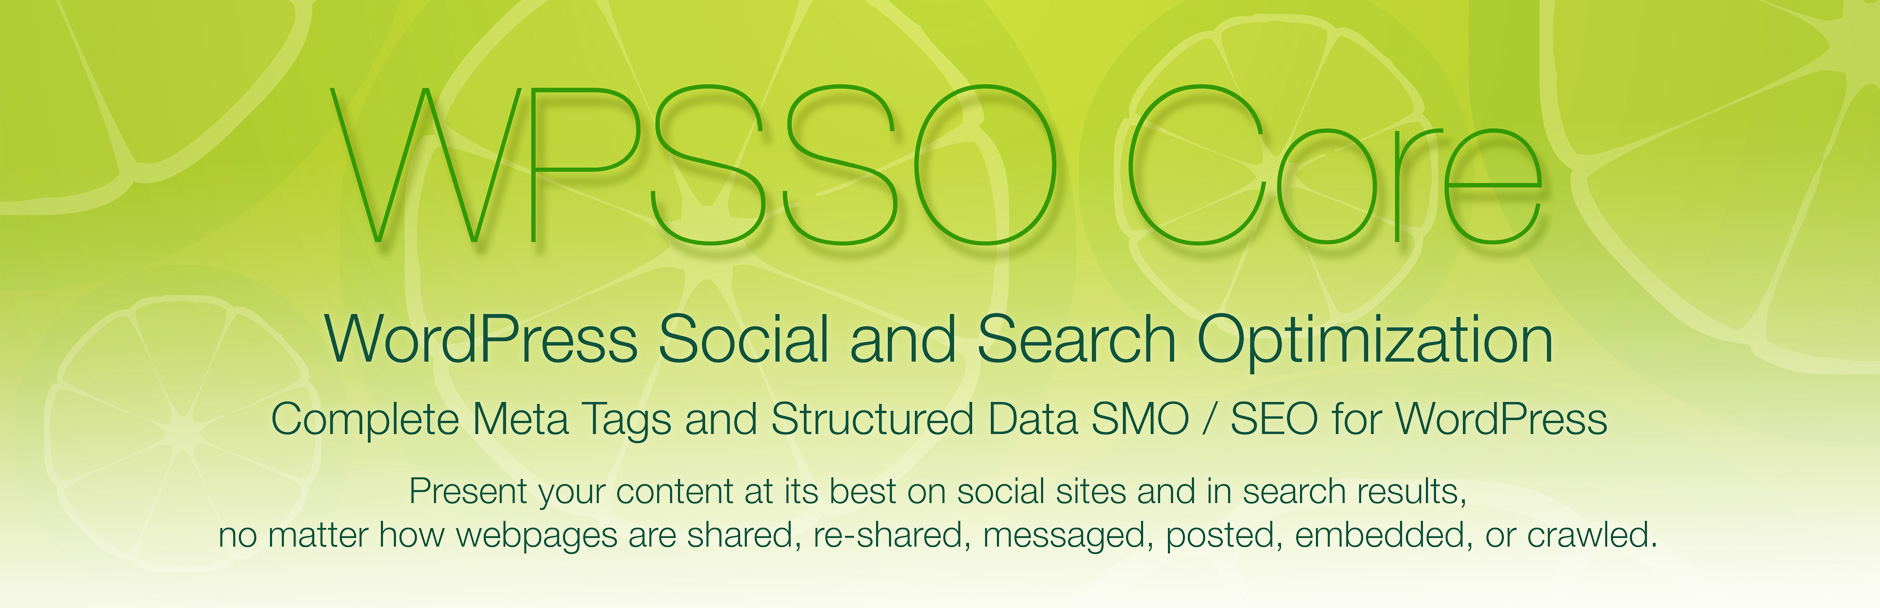
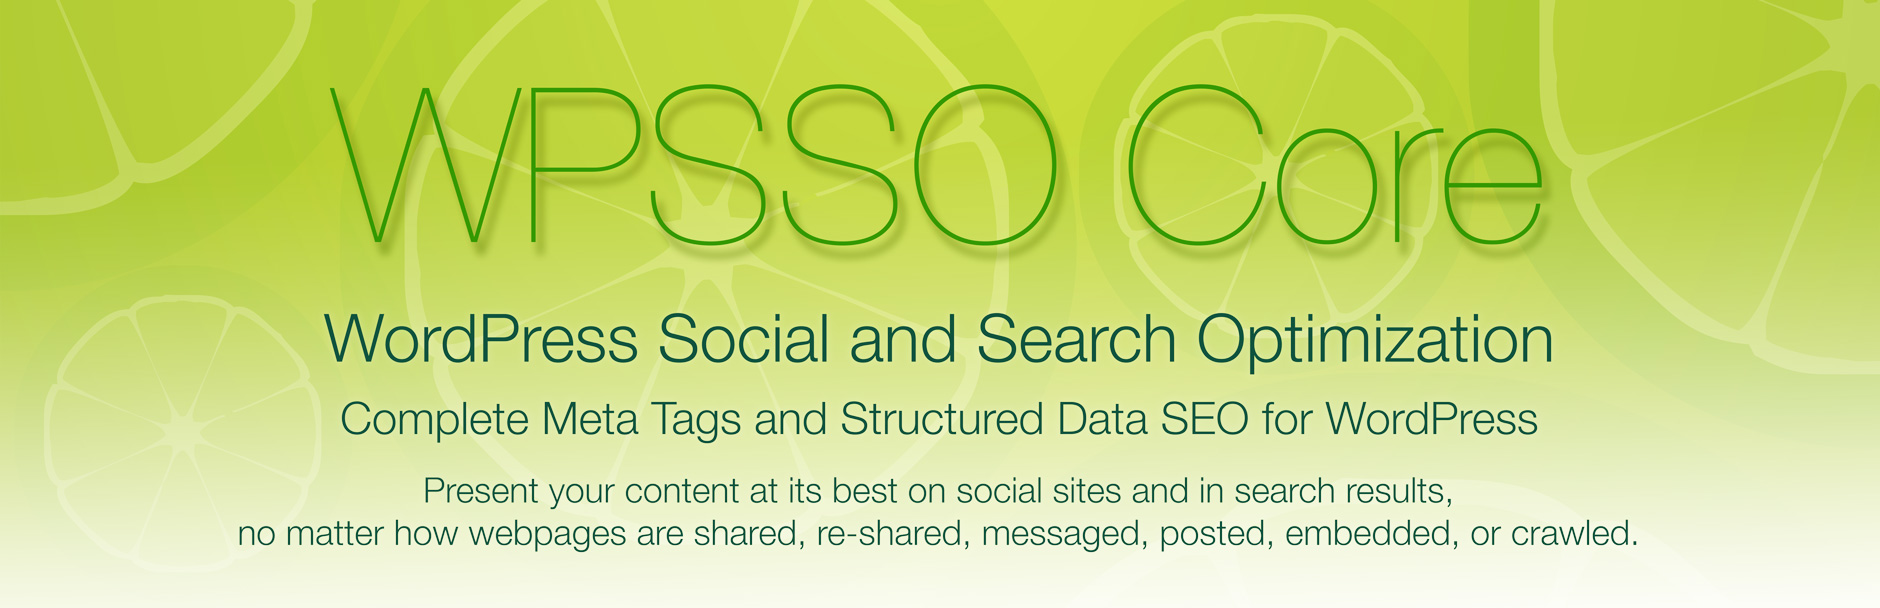
non-essential support files (documentation and assets)

Changed region(s): [[0.1234, 0.7812, 0.8947, 0.9062], [0.1543, 0.6562, 0.8638, 0.7188]]

diff --git a/index.html b/index.html
@@ -25,7 +25,7 @@
         </ul>
       </header>
       <section>
-<h1>WPSSO Core</h1><h3>Complete Meta Tags and Structured Data SMO / SEO</h3>
+<h1>WPSSO Core</h1><h3>Complete Meta Tags and Structured Data SEO</h3>
 
 <table>
 <tr><th align="right" valign="top" nowrap>Plugin Name</th><td>WPSSO Core</td></tr>
